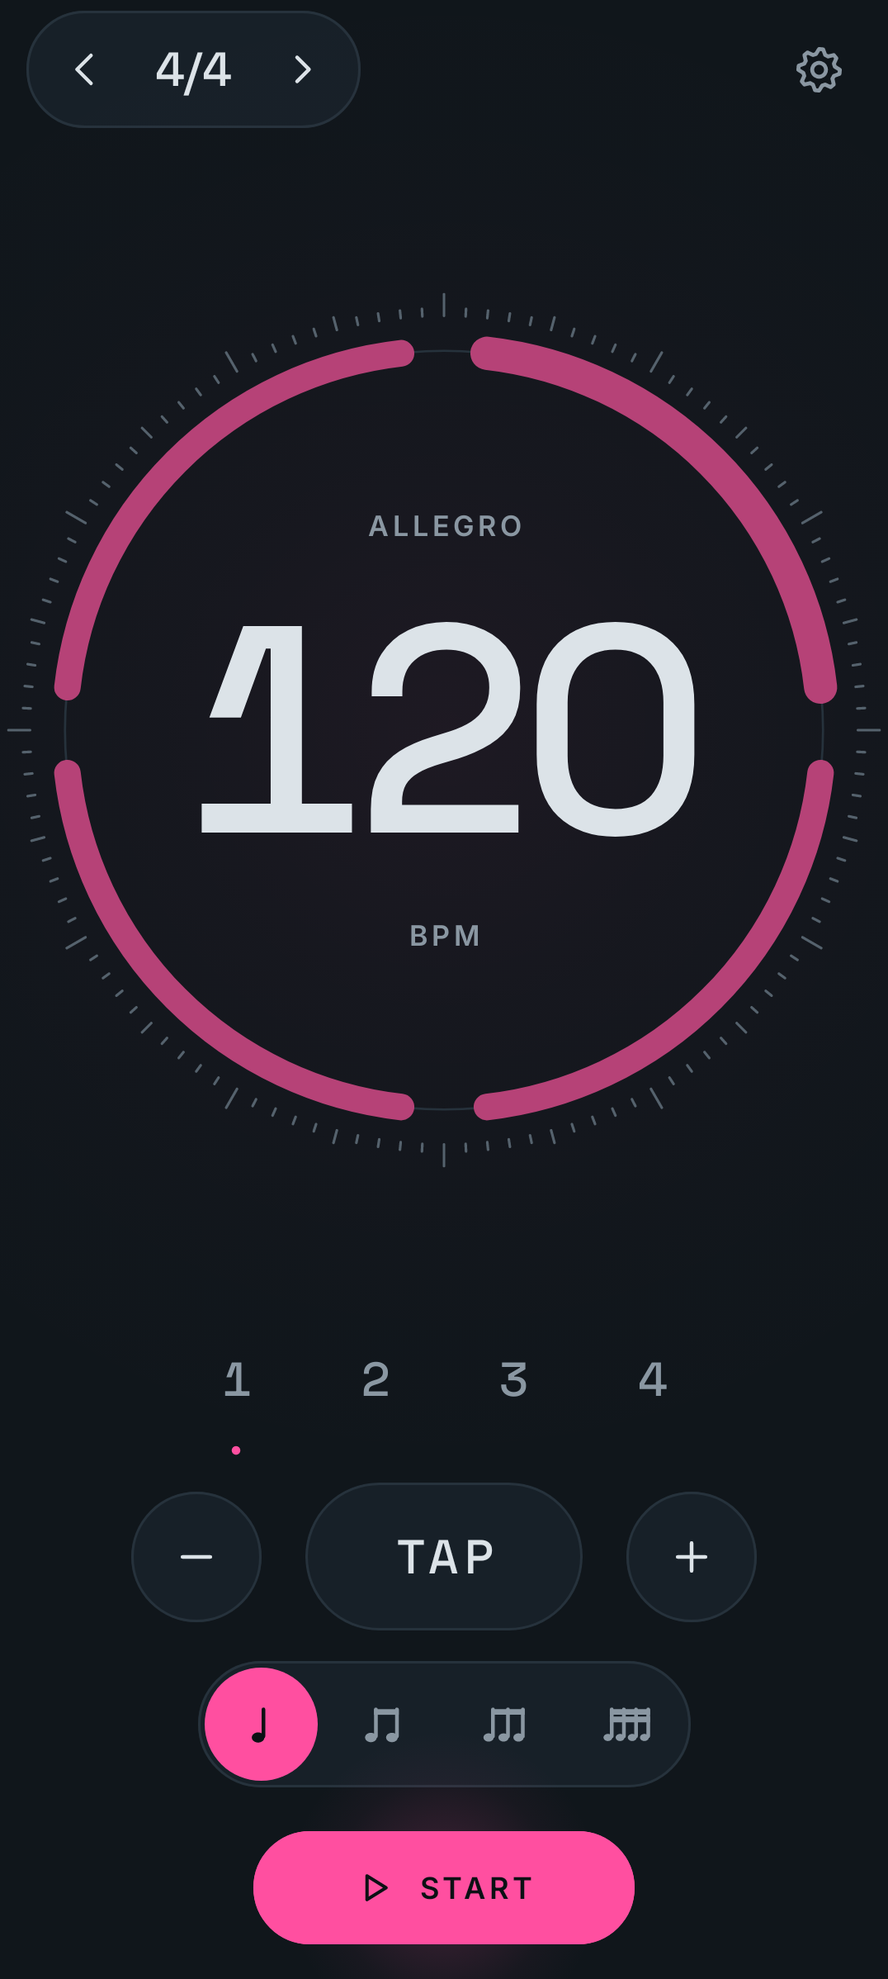
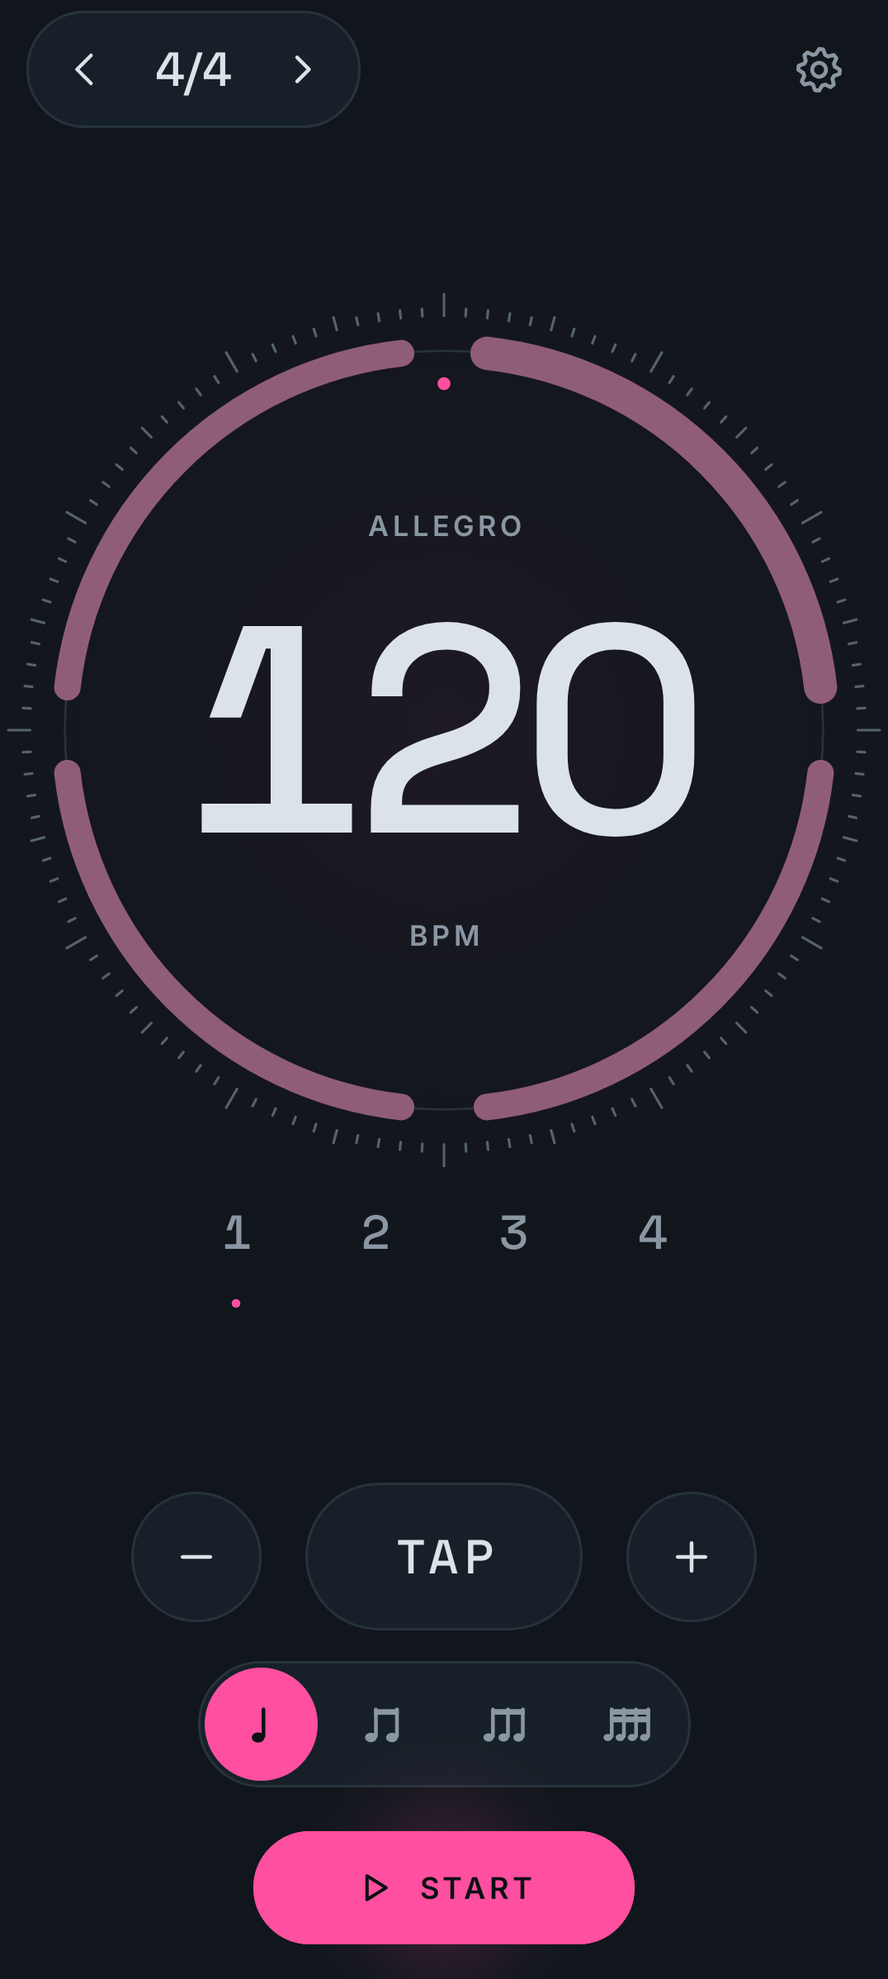
pulsr: laufender Schlag hebt sich ab, ruhiger Leerlauf, Eins markiert, Rad und Zaehler mittig, Haptik nur bei Aenderung

diff --git a/apps/pulsr/src/main/kotlin/solutions/xapient/pulsr/ui/PulseScreen.kt b/apps/pulsr/src/main/kotlin/solutions/xapient/pulsr/ui/PulseScreen.kt
@@ -9,6 +9,7 @@ import androidx.compose.foundation.gestures.awaitFirstDown
 import androidx.compose.foundation.gestures.waitForUpOrCancellation
 import androidx.compose.foundation.layout.Arrangement
 import androidx.compose.foundation.layout.Box
+import androidx.compose.foundation.layout.BoxWithConstraints
 import androidx.compose.foundation.layout.Column
 import androidx.compose.foundation.layout.ExperimentalLayoutApi
 import androidx.compose.foundation.layout.FlowRow
@@ -35,6 +36,9 @@ import androidx.compose.runtime.remember
 import androidx.compose.runtime.rememberUpdatedState
 import androidx.compose.runtime.setValue
 import androidx.compose.runtime.withFrameNanos
+import android.os.Build
+import android.os.SystemClock
+import android.view.HapticFeedbackConstants
 import androidx.compose.ui.Alignment
 import androidx.compose.ui.Modifier
 import androidx.compose.ui.draw.clip
@@ -49,6 +53,7 @@ import androidx.compose.ui.graphics.graphicsLayer
 import androidx.compose.ui.graphics.vector.ImageVector
 import androidx.compose.ui.input.pointer.pointerInput
 import androidx.compose.ui.platform.LocalDensity
+import androidx.compose.ui.platform.LocalView
 import androidx.compose.ui.platform.LocalWindowInfo
 import androidx.compose.ui.res.pluralStringResource
 import androidx.compose.ui.res.stringResource
@@ -89,9 +94,11 @@ fun PulseScreen(
     playing: Boolean,
     pulse: (Long) -> Pulse?,
     haptics: Haptics?,
-    onNudge: (Int) -> Unit,
+    // true = Tempo hat sich geaendert
+    onNudge: (Int) -> Boolean,
     onBpm: (Int) -> Unit,
-    onTap: () -> Unit,
+    // Zeit des Aufsetzens in uptimeMillis
+    onTap: (Long) -> Unit,
     onBeats: (Int) -> Unit,
     onSub: (Subdivision) -> Unit,
     onToggle: () -> Unit,
@@ -104,13 +111,27 @@ fun PulseScreen(
         if (playing && animate) while (true) withFrameNanos { frame.longValue = it }
     }
     if (playing && settings.keepOn) KeepScreenOn()
-    val current = { pulse(frame.longValue) }
+    // Bild erscheint etwa ein Frame nach seiner Bildzeit: Puls fuer diesen Moment, einmal je Bild
+    val view = LocalView.current
+    val ahead = remember(view) { (1e9f / (view.display?.refreshRate?.takeIf { it > 0f } ?: 60f)).toLong() }
+    val memo = remember(playing) { PulseMemo() }
+    val current = { memo.at(frame.longValue) { pulse(it + ahead) } }
     val landscape = LocalWindowInfo.current.containerSize.let { it.width > it.height }
 
+    // Haptik nur, wenn sich das Tempo wirklich aendert; am Rand einmal Ablehnung
+    var atLimit by remember { mutableStateOf(false) }
     val dial: @Composable (Modifier) -> Unit = { m ->
         Dial(
-            bpm = settings.bpm, beats = settings.beats, sub = settings.sub.count, playing = playing, pulse = current,
-            onRotate = { haptics?.tick(); onNudge(it) },
+            bpm = settings.bpm, beats = settings.beats, sub = settings.sub.count, accent = settings.accent, playing = playing, pulse = current,
+            onRotate = {
+                if (onNudge(it)) {
+                    atLimit = false
+                    haptics?.tick()
+                } else if (!atLimit) {
+                    atLimit = true
+                    if (haptics != null) view.performHapticFeedback(if (Build.VERSION.SDK_INT >= 30) HapticFeedbackConstants.REJECT else HapticFeedbackConstants.LONG_PRESS)
+                }
+            },
             onSet = onBpm,
             modifier = m,
         )
@@ -155,8 +176,15 @@ fun PulseScreen(
                     Spacer(Modifier.weight(1f))
                     gear()
                 }
-                dial(Modifier.weight(1f).fillMaxWidth())
-                BeatCounter(settings.beats, settings.accent, playing, current, Modifier.fillMaxWidth().padding(horizontal = 24.dp))
+                // Rad quadratisch, mit dem Zaehler als Gruppe mittig im freien Raum: Zaehler sitzt direkt am Ring
+                val counterH = counterHeight(LocalDensity.current.fontScale)
+                BoxWithConstraints(Modifier.weight(1f).fillMaxWidth(), contentAlignment = Alignment.Center) {
+                    val side = minOf(maxWidth, maxHeight - counterH).coerceAtLeast(0.dp)
+                    Column(horizontalAlignment = Alignment.CenterHorizontally) {
+                        dial(Modifier.size(side))
+                        BeatCounter(settings.beats, settings.accent, playing, current, Modifier.fillMaxWidth().padding(horizontal = 24.dp))
+                    }
+                }
                 Spacer(Modifier.height(14.dp))
                 TempoRow(settings.bpm, haptics, onNudge, onTap)
                 Spacer(Modifier.height(14.dp))
@@ -170,7 +198,7 @@ fun PulseScreen(
 
 // − TAP +
 @Composable
-private fun TempoRow(bpm: Int, haptics: Haptics?, onNudge: (Int) -> Unit, onTap: () -> Unit) {
+private fun TempoRow(bpm: Int, haptics: Haptics?, onNudge: (Int) -> Boolean, onTap: (Long) -> Unit) {
     Row(verticalAlignment = Alignment.CenterVertically, horizontalArrangement = Arrangement.spacedBy(20.dp)) {
         StepButton(PulsrIcons.Minus, stringResource(R.string.slower), bpm > Tempo.MIN, haptics, big = true) { onNudge(-1) }
         TapButton(haptics, onTap)
@@ -180,7 +208,7 @@ private fun TempoRow(bpm: Int, haptics: Haptics?, onNudge: (Int) -> Unit, onTap:
 
 // Tippen im Takt; jeder Tipp leuchtet kurz auf
 @Composable
-private fun TapButton(haptics: Haptics?, onTap: () -> Unit) {
+private fun TapButton(haptics: Haptics?, onTap: (Long) -> Unit) {
     val c = Aapps.colors
     val tap by rememberUpdatedState(onTap)
     var pressed by remember { mutableStateOf(false) }
@@ -200,14 +228,15 @@ private fun TapButton(haptics: Haptics?, onTap: () -> Unit) {
             .semantics {
                 role = Role.Button
                 contentDescription = desc
-                onClick { tap(); true }
+                onClick { tap(SystemClock.uptimeMillis()); true }
             }
             // Anschlag zaehlt beim Aufsetzen, nicht beim Loslassen
             .pointerInput(Unit) {
                 awaitEachGesture {
-                    awaitFirstDown()
+                    val down = awaitFirstDown()
                     pressed = true
-                    tap()
+                    // Zeit des Aufsetzens, nicht der Auswertung: Tempo haengt nicht an Verzoegerungen im UI-Thread
+                    tap(down.uptimeMillis)
                     haptics?.press()
                     waitForUpOrCancellation()
                     pressed = false
@@ -346,6 +375,22 @@ private fun SubPicker(current: Subdivision, haptics: Haptics?, onSub: (Subdivisi
     }
 }
 
+private fun counterHeight(fontScale: Float) = 60.dp * fontScale.coerceIn(1f, 1.4f)
+
+// Puls einmal je Bild berechnen; Rad, Zahl und Zaehler lesen denselben Wert
+private class PulseMemo {
+    private var time = Long.MIN_VALUE
+    private var value: Pulse? = null
+
+    fun at(t: Long, compute: (Long) -> Pulse?): Pulse? {
+        if (t != time) {
+            time = t
+            value = compute(t)
+        }
+        return value
+    }
+}
+
 // Zaehler 1..n: laufender Schlag als Akzent-Kreis, Punkt unter der betonten Eins; Puls nur in der Zeichenphase
 @Composable
 private fun BeatCounter(beats: Int, accent: Boolean, playing: Boolean, pulse: () -> Pulse?, modifier: Modifier = Modifier) {
@@ -355,7 +400,7 @@ private fun BeatCounter(beats: Int, accent: Boolean, playing: Boolean, pulse: ()
     val fs = LocalDensity.current.fontScale.coerceIn(1f, 2f)
     Spacer(
         modifier
-            .height(60.dp * fs.coerceAtMost(1.4f))
+            .height(counterHeight(fs))
             .drawWithCache {
                 val slot = min(size.width / beats, 64.dp.toPx())
                 val r = min(slot * 0.42f, size.height * 0.4f)

diff --git a/apps/pulsr/src/main/kotlin/solutions/xapient/pulsr/ui/Dial.kt b/apps/pulsr/src/main/kotlin/solutions/xapient/pulsr/ui/Dial.kt
@@ -69,6 +69,7 @@ fun Dial(
     bpm: Int,
     beats: Int,
     sub: Int,
+    accent: Boolean,
     playing: Boolean,
     pulse: () -> Pulse?,
     onRotate: (Int) -> Unit,
@@ -80,7 +81,8 @@ fun Dial(
     val marking = Tempo.marking(bpm)
     val desc = stringResource(R.string.tempo)
     val state = stringResource(R.string.tempo_state, bpm, marking)
-    val dim = dimSegment()
+    val idle = idleSegment(c)
+    val rest = restSegment(c)
     BoxWithConstraints(
         modifier
             .semantics {
@@ -116,6 +118,7 @@ fun Dial(
             }
             .drawWithCache {
                 val r = ringRadius(size)
+                val marked = accent && beats > 1
                 val stroke = (r * 0.07f).coerceIn(8.dp.toPx(), 16.dp.toPx())
                 val seg = 360f / beats
                 // Luecke zwischen den Segmenten inkl. runder Enden
@@ -156,14 +159,15 @@ fun Dial(
                     // Skala dreht mit dem Tempo, 6 Grad je BPM
                     rotate(bpm * Wheel.DEG_PER_BPM) { drawPath(ticks, c.fgFaint, style = tickStroke) }
                     drawCircle(c.line, r, center, style = Stroke(1.dp.toPx()))
+                    // gestoppt ruhig; beim Spielen treten die ruhenden Schlaege zurueck, der laufende leuchtet voll
+                    val base = if (p != null) rest else idle
                     for (i in 0 until beats) {
                         val current = p != null && p.beat == i
-                        // laufender Schlag bleibt sichtbar hell, Anschlag blitzt auf
-                        val lit = if (current) 0.45f + 0.55f * f else 0f
-                        val col = lerp(dim, c.accent, lit)
+                        val lit = if (current) litLevel(f) else 0f
+                        val col = lerp(base, c.accent, lit)
                         val start = -90f + i * seg + gap / 2
                         val sweep = (seg - gap).coerceAtLeast(0.5f)
-                        val w = if (i == 0 && beats > 1) stroke * 1.25f else stroke
+                        val w = if (i == 0 && marked) stroke * 1.25f else stroke
                         if (lit > 0f) {
                             // weicher Schein in zwei Lagen statt einem harten Band
                             drawArc(c.accent.copy(alpha = 0.07f * lit), start, sweep, false, Offset(center.x - r, center.y - r), Size(2 * r, 2 * r), style = Stroke(w * 3.2f, cap = StrokeCap.Round))
@@ -175,6 +179,8 @@ fun Dial(
                             drawArc(Color.White.copy(alpha = 0.35f * f), start, sweep, false, Offset(center.x - r, center.y - r), Size(2 * r, 2 * r), style = Stroke(w * 0.3f, cap = StrokeCap.Round))
                         }
                     }
+                    // betonte Eins: Punkt innen am Ringanfang, wie unter der 1 im Zaehler
+                    if (marked) drawCircle(c.accent, 3.dp.toPx(), Offset(center.x, center.y - subR))
                     // Unterteilungen als Punkte innen am Ring
                     if (sub > 1) {
                         for (i in 0 until beats) for (j in 1 until sub) {

diff --git a/apps/pulsr/src/test/kotlin/solutions/xapient/pulsr/ContrastTest.kt b/apps/pulsr/src/test/kotlin/solutions/xapient/pulsr/ContrastTest.kt
@@ -10,7 +10,10 @@ import solutions.xapient.pulsr.ui.GLOW_BASE
 import solutions.xapient.pulsr.ui.GLOW_FLASH
 import solutions.xapient.pulsr.ui.PulsrAccent
 import solutions.xapient.pulsr.ui.RING_GLOW
-import solutions.xapient.pulsr.ui.dimSegment
+import solutions.xapient.pulsr.ui.LIT_HOLD
+import solutions.xapient.pulsr.ui.idleSegment
+import solutions.xapient.pulsr.ui.restSegment
+import androidx.compose.ui.graphics.lerp
 
 // WCAG-Kontrast gemessen statt geschaetzt; Text >= 4,5:1, Grafik >= 3:1
 class ContrastTest {
@@ -37,17 +40,22 @@ class ContrastTest {
 
     // Schlag-Segmente zeigen die Taktart, auch gestoppt: Grafik-Kontrast >= 3:1
     @Test fun idleSegmentsVisible() {
-        aa(dimSegment(), ui.bg, "Segment gedimmt", 3.0)
-        // am Ring: Grundschein dauerhaft, das Aufblitzen nur Sekundenbruchteile
+        aa(idleSegment(ui), ui.bg, "Segment im Leerlauf", 3.0)
+        // am Ring: Grundschein dauerhaft
         val ring = ui.accent.copy(alpha = GLOW_BASE * RING_GLOW).compositeOver(ui.bg)
-        aa(dimSegment(), ring, "Segment gedimmt am Ring", 3.0)
-        val flashRing = ui.accent.copy(alpha = (GLOW_BASE + GLOW_FLASH) * RING_GLOW).compositeOver(ui.bg)
-        aa(dimSegment(), flashRing, "Segment gedimmt beim Aufblitzen", 3.0)
+        aa(idleSegment(ui), ring, "Segment im Leerlauf am Ring", 3.0)
         aa(ui.fgMuted, ui.bg, "Unterteilungs-Punkt", 3.0)
     }
 
-    // aktiver Schlag hebt sich vom gedimmten ab
-    @Test fun litSegmentStandsOut() = assertTrue(ratio(ui.accent, dimSegment()) > 1.5)
+    // Spielen: laufender Schlag (auch zwischen den Anschlaegen) klar vor den ruhenden, auch beim Aufblitzen des Lichthofs.
+    // Ruhende Schlaege bewusst unter 3:1: die Taktart steht im Stepper, der Ring zeigt hier den Schlag.
+    @Test fun litSegmentStandsOut() {
+        val lit = lerp(restSegment(ui), ui.accent, LIT_HOLD)
+        aa(lit, restSegment(ui), "laufend zu ruhend", 2.5)
+        aa(lit, ui.bg, "laufend auf Grund", 3.0)
+        val flashRing = ui.accent.copy(alpha = (GLOW_BASE + GLOW_FLASH) * RING_GLOW).compositeOver(ui.bg)
+        aa(restSegment(ui), flashRing, "ruhend sichtbar", 1.6)
+    }
 
     @Test fun controls() {
         aa(ui.onAccent, ui.accent, "Tinte auf Akzent (Start, gewaehlte Unterteilung, Tap)")

diff --git a/apps/pulsr/src/main/kotlin/solutions/xapient/pulsr/ui/PulsrLook.kt b/apps/pulsr/src/main/kotlin/solutions/xapient/pulsr/ui/PulsrLook.kt
@@ -11,6 +11,7 @@ import androidx.compose.ui.graphics.vector.PathBuilder
 import androidx.compose.ui.graphics.vector.path
 import androidx.compose.ui.res.stringResource
 import androidx.compose.ui.unit.dp
+import solutions.xapient.aapps.core.ui.AappsColors
 import solutions.xapient.pulsr.R
 import solutions.xapient.pulsr.domain.Subdivision
 
@@ -19,9 +20,16 @@ val Magenta = Color(0xFFFF4FA0)
 val PulsrAccent = Magenta
 val Bg = Color(0xFF10161B)
 
-// Schlag-Segmente im Ruhezustand: deutlich gedimmt, aber >= 3:1 zum Grund (ContrastTest)
-const val SEGMENT_DIM = 0.72f
-fun dimSegment(): Color = lerp(Bg, Magenta, SEGMENT_DIM)
+// Leerlauf: Segmente gedaempft und leicht entsaettigt (ruhig, nicht "an"), aber >= 3:1 zum Grund (ContrastTest)
+fun idleSegment(ui: AappsColors): Color = lerp(lerp(ui.bg, ui.accent, 0.55f), ui.fgMuted, 0.35f)
+
+// Beim Spielen: ruhende Schlaege weit zurueck, der laufende leuchtet voll (>= 2,5:1 dazu)
+const val SEGMENT_REST = 0.4f
+fun restSegment(ui: AappsColors): Color = lerp(ui.bg, ui.accent, SEGMENT_REST)
+
+// Helligkeit des laufenden Schlags: nie unter LIT_HOLD, Anschlag voll
+const val LIT_HOLD = 0.8f
+fun litLevel(flash: Float): Float = LIT_HOLD + (1f - LIT_HOLD) * flash
 
 // Lichthof hinter dem Rad: Grundhelligkeit und Aufblitzen je Schlag; Summe haelt Text >= 4,5:1
 const val GLOW_BASE = 0.06f

diff --git a/apps/pulsr/src/test/kotlin/solutions/xapient/pulsr/GestureTest.kt b/apps/pulsr/src/test/kotlin/solutions/xapient/pulsr/GestureTest.kt
@@ -53,7 +53,7 @@ class GestureTest {
             val p by store.playing.collectAsState()
             PulseScreen(
                 s, p, { pulseCalls++; store.pulse(it) }, null,
-                onNudge = store::nudge, onBpm = store::setBpm, onTap = { store.tap() }, onBeats = store::setBeats,
+                onNudge = store::nudge, onBpm = store::setBpm, onTap = { store.tap(it) }, onBeats = store::setBeats,
                 onSub = { store.set(store.settings.value.copy(sub = it)) }, onToggle = store::toggle, onSettings = {},
             )
         }

diff --git a/apps/pulsr/src/test/kotlin/solutions/xapient/pulsr/screenshots/PulsrScreenshotTest.kt b/apps/pulsr/src/test/kotlin/solutions/xapient/pulsr/screenshots/PulsrScreenshotTest.kt
@@ -53,7 +53,7 @@ class PulsrScreenshotTest {
     private fun Screen(s: Settings, p: Pulse? = null) {
         PulseScreen(
             s, playing = p != null, pulse = { p }, haptics = null,
-            onNudge = {}, onBpm = {}, onTap = {}, onBeats = {}, onSub = {}, onToggle = {}, onSettings = {}, animate = false,
+            onNudge = { false }, onBpm = {}, onTap = {}, onBeats = {}, onSub = {}, onToggle = {}, onSettings = {}, animate = false,
         )
     }
 

diff --git a/apps/pulsr/src/main/kotlin/solutions/xapient/pulsr/PulsrApp.kt b/apps/pulsr/src/main/kotlin/solutions/xapient/pulsr/PulsrApp.kt
@@ -66,7 +66,7 @@ fun PulsrApp() {
                 haptics = haptics,
                 onNudge = store::nudge,
                 onBpm = store::setBpm,
-                onTap = { store.tap() },
+                onTap = { store.tap(it) },
                 onBeats = store::setBeats,
                 onSub = { store.set(settings.copy(sub = it)) },
                 onToggle = ::toggle,

diff --git a/apps/pulsr/SPEC.md b/apps/pulsr/SPEC.md
@@ -8,10 +8,10 @@ Metronom zum Üben: Tempo einstellen, Start drücken, sauberer Klick ohne Schwan
 - Tap-Tempo: Mittelwert der letzten bis zu 6 Abstände, Ausreißer (> 35 % vom Median) fallen weg, nach 3,2 s Pause (länger als ein Schlag bei 20 BPM) beginnt die Messung neu. Ab dem 2. Tipp wird das Tempo gesetzt.
 - Taktart 1–12 Schläge (x/4), erster Schlag betont (abschaltbar). Unterteilung: Viertel, Achtel, Triolen, Sechzehntel.
 - Klang: Klick, Holz, Piep; jeweils eigene Töne für Betonung, Schlag und Unterteilung, vorab als PCM erzeugt.
-- Timing sample-genau: ein durchgehender `AudioTrack` (MODE_STREAM, PCM 16 bit, native Abtastrate) auf eigenem Thread mit Audio-Priorität. Die Klicks werden auf das Sample genau in den Puffer gemischt, kein Handler/Timer/delay. Kein Drift: die Beat-Position läuft kontinuierlich mit, Fehler < 1 Sample je Schlag, ohne Aufsummieren.
+- Timing sample-genau: ein durchgehender `AudioTrack` (MODE_STREAM, PCM 16 bit, native Abtastrate) auf eigenem Thread mit Audio-Priorität. Die Klicks werden auf das Sample genau in den Puffer gemischt, kein Handler/Timer/delay. Kein Drift: die Beat-Position läuft kontinuierlich mit, Fehler < 1 Sample je Schlag, ohne Aufsummieren. 80 ms Stille vor der ersten Eins (sonst verschluckt das Einblenden der Ausgabe sie). Stopp ohne Knacksen: ein Ausblend-Block, Puffer zu Ende spielen. Bei Aussetzern wächst der Puffer schrittweise (20 → höchstens 80 ms). Fällt die Ausgabe weg (z. B. ERROR_DEAD_OBJECT), einmal mit neuem Track weiter, sonst Stopp.
 - Tempo-, Takt- und Unterteilungswechsel im Lauf ohne Stolpern: der laufende Schlag wird mit dem neuen Tempo zu Ende gezählt.
-- Visueller Puls synchron zum Ton: Die Animation leitet ihre Phase aus der Audio-Position ab (`AudioTrack.getTimestamp`, sonst `playbackHeadPosition`), nicht aus der Wanduhr. Aktueller Schlag leuchtet auf, ein Komet läuft im Takt um den Ring, der betonte Schlag schickt eine Ring-Welle aus, die BPM-Zahl pulsiert leicht.
-- Hintergrund: Foreground-Service `mediaPlayback` mit Benachrichtigung (Tempo, Takt, Stopp). Kopfhörer ab = Stopp.
+- Visueller Puls synchron zum Ton: Die Animation leitet ihre Phase aus der Audio-Position ab (`AudioTrack.getTimestamp`, sonst `playbackHeadPosition`), nicht aus der Wanduhr. Der laufende Schlag leuchtet voll, die ruhenden treten beim Spielen zurück; ein Komet läuft im Takt um den Ring, der betonte Schlag schickt eine Ring-Welle aus, die BPM-Zahl pulsiert leicht. Gestoppt ist der Ring ruhig gedämpft. Klick und Bild wechseln den Schlag am selben Frame.
+- Hintergrund: Foreground-Service `mediaPlayback` mit Benachrichtigung (Tempo, Takt, Stopp; Tempo-Änderungen entprellt). Kopfhörer ab = Stopp, Telefonat beginnt = Stopp.
 - Bildschirm bleibt beim Spielen an (abschaltbar). Klang über die Medienlautstärke, mischt sich in Musik (kein Audio-Fokus, damit man zu Aufnahmen üben kann).
 - Einstellungen und Tempo überstehen Drehung und Prozess-Tod. Nach Prozess-Tod spielt nichts von selbst.
 - Hoch- und Querformat, Englisch und Deutsch, lesbar bei 200 % Schrift.
@@ -21,7 +21,7 @@ Metronom zum Üben: Tempo einstellen, Start drücken, sauberer Klick ohne Schwan
 |---|---|
 | `FOREGROUND_SERVICE`, `FOREGROUND_SERVICE_MEDIA_PLAYBACK` | Das Metronom spielt bei gesperrtem Bildschirm weiter. Es ist Audiowiedergabe, also der passende Standardtyp. |
 | `POST_NOTIFICATIONS` | Stopp in der Benachrichtigung (Android 13+, einmal vor dem ersten Start gefragt; abgelehnt spielt es trotzdem). |
-| `WAKE_LOCK` | CPU bleibt wach, damit der Audio-Thread den Puffer rechtzeitig füllt. Nur während des Spielens. |
+| `WAKE_LOCK` | CPU bleibt wach, damit der Audio-Thread den Puffer rechtzeitig füllt. Nur während des Spielens. Bleibt, weil die Android-Doku für Hintergrund-Wiedergabe einen Wakelock verlangt; dass AudioFlinger bei aktivem Track die CPU auch für den App-Thread wach hält, ist nicht dokumentiert zugesichert. |
 
 Kein INTERNET, kein VIBRATE (Haptik über die View).
 
@@ -29,7 +29,7 @@ Kein INTERNET, kein VIBRATE (Haptik über die View).
 - Keine Presets/Setlists, kein Trainer (Tempo-Rampen), keine Pendel-Physik, kein Blitz-Modus, keine Betonung pro Schlag, keine ungeraden Nenner (x/8).
 
 ## Screens
-1. **Metronom**: oben Taktart-Stepper und Zahnrad; Hero = Rad mit Schlag-Segmenten, Skala, Komet und großer BPM-Zahl mit Tempobezeichnung (Largo … Prestissimo); darunter Schlagzähler 1…n (laufender Schlag als Akzent-Kreis, Punkt unter der betonten Eins), −, TAP, +, Unterteilung; Hauptaktion Start/Stopp. Querformat: Bedienung links, Rad rechts (ohne Zähler).
+1. **Metronom**: oben Taktart-Stepper und Zahnrad; Hero = Rad mit Schlag-Segmenten (betonte Eins breiter, Punkt innen am Ringanfang), Skala, Komet und großer BPM-Zahl mit Tempobezeichnung (Largo … Prestissimo); direkt darunter, als Gruppe mittig, Schlagzähler 1…n (laufender Schlag als Akzent-Kreis, Punkt unter der betonten Eins), −, TAP, +, Unterteilung; Hauptaktion Start/Stopp. Querformat: Bedienung links, Rad rechts (ohne Zähler).
 2. **Einstellungen**: Klang, Betonung, Bildschirm an, Info.
 3. **Info**: wie alle aapps.
 
@@ -46,6 +46,6 @@ Kein INTERNET, kein VIBRATE (Haptik über die View).
 Varianten (Standard Pixel 7, en): `_de`, `_land`, `_font200`, `_land_font200` für `idle`, `play_accent`, `settings`; dazu `idle_360dp`, `about_de`.
 
 ## Abnahmekriterien
-- Domain ohne Android-Imports, Unit-Tests für Sample-Positionen (Abstand, Unterteilung, Betonung, kein Drift über 10 min, Tempowechsel mitten im Schlag), Mischen (Onset auf dem Sample), Audio-Uhr (Schlag/Phase aus Frame-Position), Tap-Tempo (Mittelwert, Ausreißer, Neustart nach Pause), Rad-Winkel, Tempobezeichnung, Speicher, Kontrast (WCAG AA gemessen, auch inaktive Segmente ≥ 3:1).
+- Domain ohne Android-Imports, Unit-Tests für Sample-Positionen (Abstand, Unterteilung, Betonung, kein Drift über 10 min, Tempowechsel mitten im Schlag), Mischen (Onset auf dem Sample), Audio-Uhr (Schlag/Phase aus Frame-Position; Eigenschaftstest: am Klick-Frame kippt die Uhr, auch bei zufälligen Wechseln), Tap-Tempo (Mittelwert, Ausreißer, Neustart nach Pause), Rad-Winkel, Tempobezeichnung, Speicher, Kontrast (WCAG AA gemessen; gestoppte Segmente ≥ 3:1, beim Spielen laufender zu ruhendem Schlag ≥ 2,5:1).
 - Gesten (Robolectric): Rad drehen, −/+ und Halten, Tap, Start/Stopp. Im Leerlauf keine Animations-Frames.
 - `:apps:pulsr:check`, `verifyRoborazziDebug`, `assembleRelease` grün; nur die 4 Berechtigungen oben; Release-APK < 4 MB.
